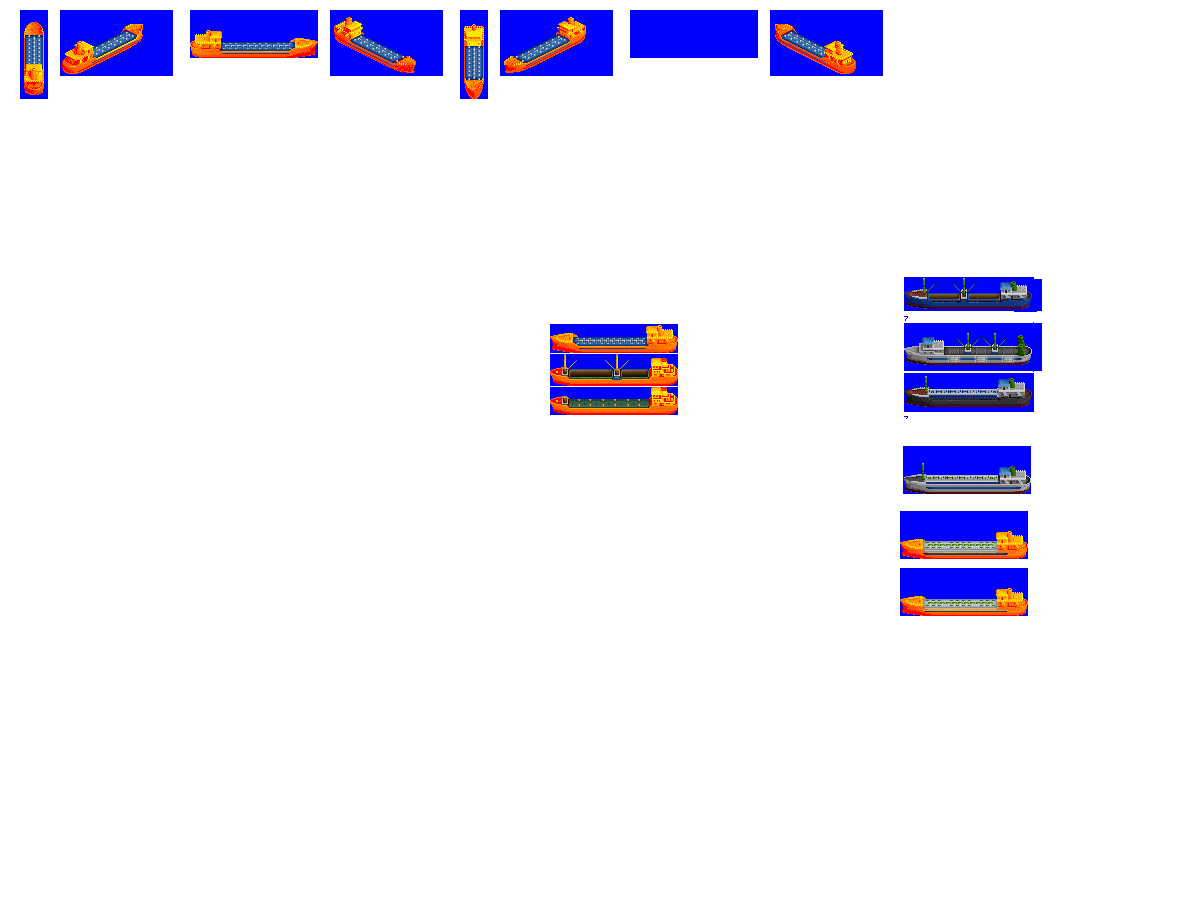
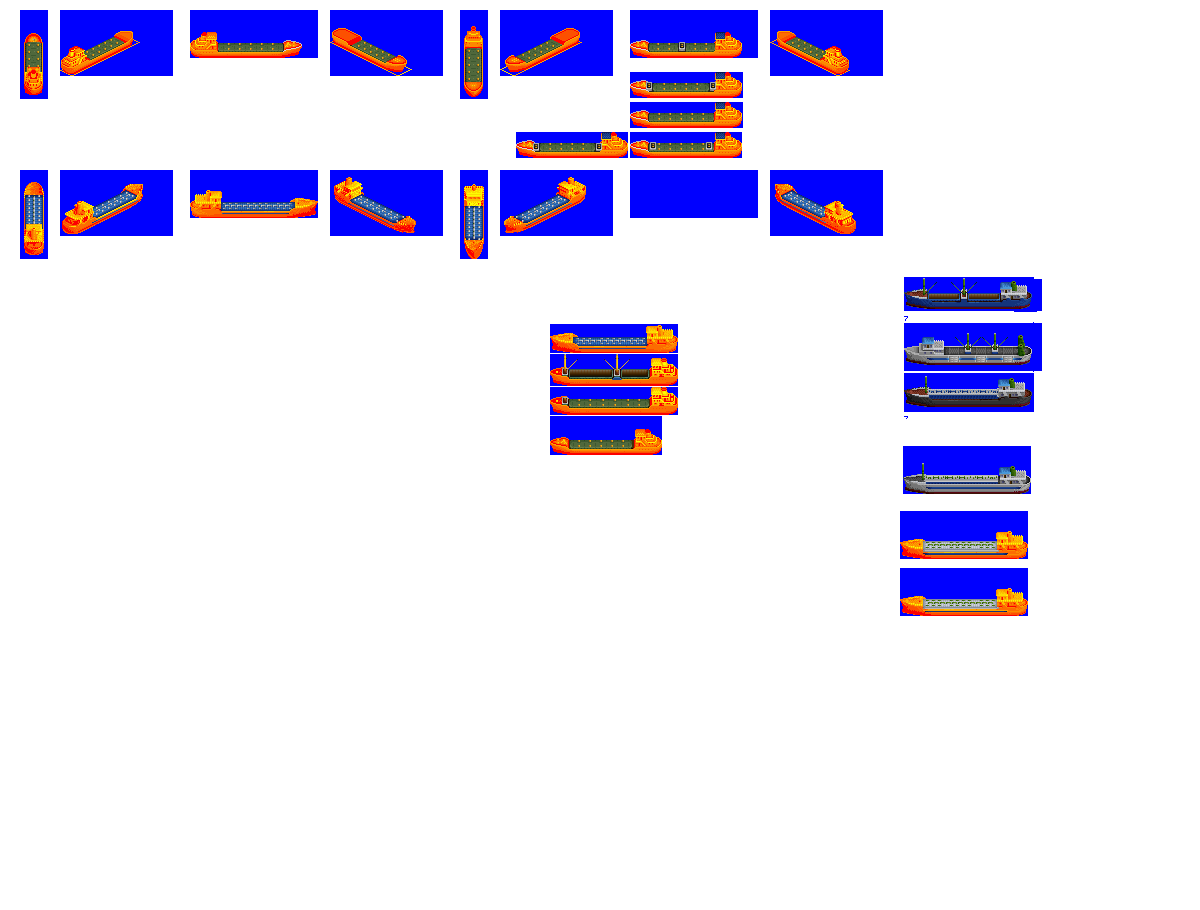
Change: WIP on Edibles Tankers

diff --git a/src/gestalt_graphics/graphics_constants.py b/src/gestalt_graphics/graphics_constants.py
@@ -63,11 +63,12 @@ edibles_tanker_livery_recolour_maps = (  # see note on DFLT above
             141: 11,
             142: 12,
             143: 13,
-            60: 1,
+            70: 1,
+            60: 2,
             72: 3,
-            123: 4,
-            74: 5,
-            75: 4,
+            123: 5,
+            74: 4,
+            75: 6,
         },
     ),
 )
